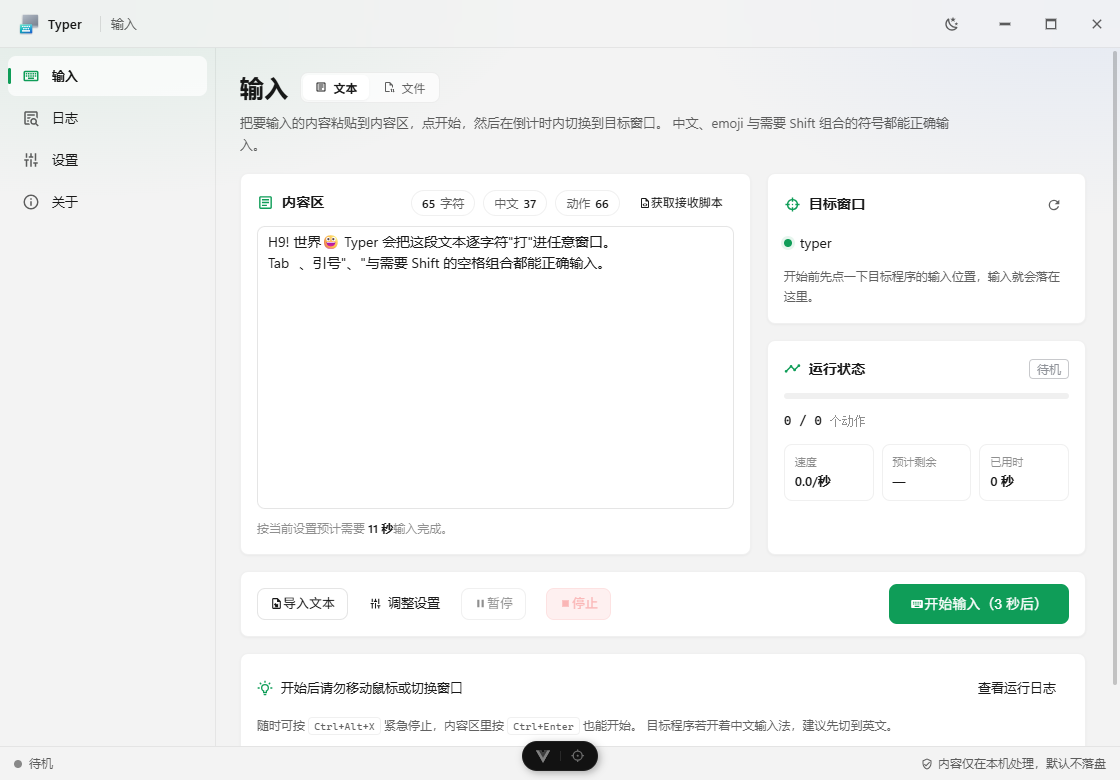
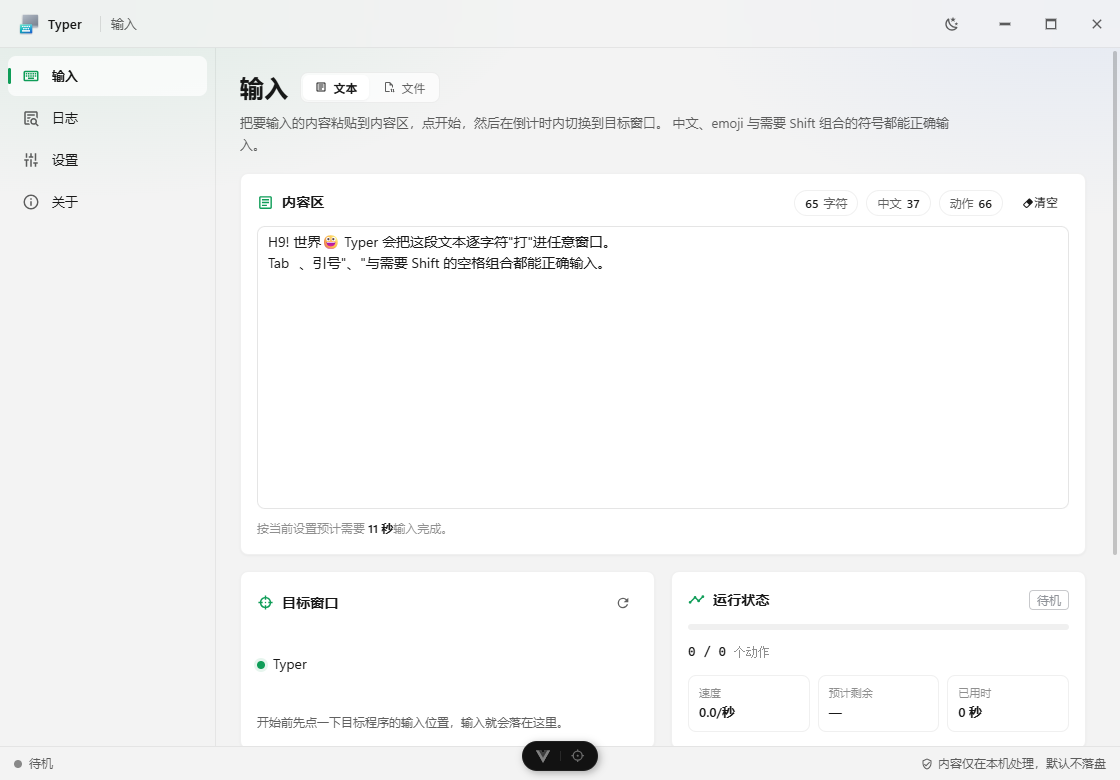
feat(renderer): 输入页按窗口宽度换排布，文本页按钮改为清空
- 文本内容区卡片：「获取接收脚本」换成「清空」（内容区为空时禁用）；接收端脚本仍可从文件页
  的脚本卡一键插入
- 输入页排布：宽窗口（≥1280px）保持"内容区 + 右列（目标窗口 / 运行状态）"两列等高；
  默认窗口宽度及更窄改为内容区独占一行，目标窗口与运行状态并排放在下面且等高
  （目标窗口内容少，撑高后把说明压到底部与统计区对齐）；≤980px 起全部单列
- 图标行对齐：抽出 .text-icon（按行框与图标高度之差补偿），修掉计划行/帧提示里图标贴着
  行上沿、与文字不同心的观感
- 文档与界面图更新（含输入页排布说明）

验证：三档宽度实测（1500 两列 / 1120 单列+并排等高 178px / 880 全单列）；
prettier --check、eslint、typecheck 全绿；vitest 470 unit passed

diff --git a/src/renderer/src/views/TyperView.vue b/src/renderer/src/views/TyperView.vue
@@ -221,7 +221,7 @@ async function insertToolScriptFromFile(): Promise<void> {
   display: grid;
   grid-template-columns: minmax(0, 1.6fr) minmax(280px, 1fr);
   gap: 16px;
-  /* 两列等高：左列是主任务（内容区），通常更高，右列拉伸对齐它的底边 */
+  /* 宽窗口：两列等高（左列是主任务，右列拉伸对齐它的底边） */
   align-items: stretch;
 }
 
@@ -270,7 +270,7 @@ async function insertToolScriptFromFile(): Promise<void> {
   min-height: 0;
   gap: 16px;
 
-  /* 目标窗口是固定内容，多出来的高度给运行状态，右列因此与左列等高 */
+  /* 宽窗口下右列与左列等高：目标窗口是固定内容，多出来的高度给运行状态 */
   > :last-child {
     flex: 1;
   }
@@ -376,9 +376,36 @@ async function insertToolScriptFromFile(): Promise<void> {
   }
 }
 
-@media (max-width: 980px) {
+/*
+ * 中窗口（含默认窗口宽度）：内容区独占一行，目标窗口与运行状态并排放在它下面、两卡等高；
+ * 高度多出来的部分留给内容，避免卡片看起来"半空"。
+ */
+@media (max-width: 1279px) {
   .input-layout {
     grid-template-columns: minmax(0, 1fr);
+  }
+
+  .side-column {
+    flex-direction: row;
+    align-items: stretch;
+
+    > :first-child,
+    > :last-child {
+      flex: 1;
+      min-width: 0;
+    }
+  }
+
+  /* 目标窗口内容少，撑高后把说明压到底部，与运行状态的统计区对齐 */
+  .target {
+    justify-content: space-between;
+  }
+}
+
+/* 窄窗口：全部单列 */
+@media (max-width: 980px) {
+  .side-column {
+    flex-direction: column;
   }
 }
 </style>

diff --git a/src/renderer/src/components/TextPanel.vue b/src/renderer/src/components/TextPanel.vue
@@ -7,7 +7,6 @@ import { estimateTotalMs } from '@main/typing/scheduling/timing'
  */
 const typing = useTyping()
 const settingsStore = useSettings()
-const toolScript = useToolScript()
 
 /** 当前生效的设置 */
 const settings = settingsStore.settings
@@ -32,6 +31,11 @@ const blocker = computed(() => {
   if (typing.text.value.length === 0) return '先在内容区粘贴要输入的文本'
   return ''
 })
+
+/** @description 清空内容区 */
+function clear(): void {
+  typing.text.value = ''
+}
 </script>
 
 <template>
@@ -56,11 +60,11 @@ const blocker = computed(() => {
       <ElButton
         size="small"
         text
-        :loading="toolScript.loading.value"
-        title="把接收脚本全文放进内容区"
-        @click="toolScript.insert()"
+        :disabled="typing.text.value.length === 0"
+        title="清空内容区"
+        @click="clear()"
       >
-        <span class="i-mdi-file-code-outline" /> 获取接收脚本
+        <span class="i-mdi-eraser" /> 清空
       </ElButton>
     </div>
 
@@ -83,7 +87,7 @@ const blocker = computed(() => {
     </p>
 
     <p v-if="looksLikeFrames" class="frame-hint">
-      <span class="i-mdi-information-outline" />
+      <span class="i-mdi-information-outline text-icon" />
       看起来是 Typer 帧文本：逐字符输入完全可行（接收端会逐片校验）， 但请把「错字概率」设为
       0，否则错字会破坏该帧、需要重传那一片。
     </p>

diff --git a/src/renderer/src/components/FilePanel.vue b/src/renderer/src/components/FilePanel.vue
@@ -332,7 +332,7 @@ const previewRows = computed(() => summary.value?.preview ?? [])
           </div>
 
           <p class="plan-line">
-            <span class="i-mdi-information-outline" />
+            <span class="i-mdi-information-outline text-icon" />
             本次将发送 <strong>{{ transfer.plan.value?.ranges ?? '全部' }}</strong> 共
             {{ transfer.sendingCount.value }} 片<template v-if="transfer.plan.value?.sendBegin">
               ，先发开始帧</template

diff --git a/src/renderer/src/assets/main.css b/src/renderer/src/assets/main.css
@@ -123,6 +123,12 @@ a:hover {
   color: var(--text-2);
 }
 
+/* 与文本同排（首行对齐）的图标：按行框与图标高度之差补偿 */
+.text-icon {
+  flex: none;
+  margin-top: calc((1lh - 1em) / 2);
+}
+
 /* ==========================================================================
    按钮与图标按钮
    ========================================================================== */

diff --git a/README.md b/README.md
@@ -33,7 +33,7 @@
 - **文本导入**：UTF-8 / UTF-16 / GBK 自动识别（中文 Windows 常见编码）
 - **文件传输（逐片传输）**：选任意文件 → 编码成纯 ASCII 帧（hex / base64 / UTF-8 文本）→ 逐片输入；
   片级 `CRC32` + `SHA-256` 校验、整文件 `SHA-256` 校验、断点续传与定点重传，配套零依赖单文件接收端脚本（Node ≥ 16）；
-  文本页一键「获取接收脚本」即可把脚本原文"打"进目标机终端，不需要任何传输介质
+  文件页的脚本卡一键「插入接收脚本到文本输入」即可把脚本原文"打"进目标机终端，不需要任何传输介质
 - **文件传输使用固定节奏**：随机性、抖动、错字与停顿在文件模式下不生效，只有「片间断顿」生效
   —— 数据传输要的是可复现与速度，不是"像人打字"
 - **内置更新**：检查 GitHub Release → 下载 → SHA-256 校验 → 交给安装程序（详见下文）
@@ -41,12 +41,12 @@
 
 ## 界面与交互
 
-| 页面     | 职责                                                                                                                              |
-| -------- | --------------------------------------------------------------------------------------------------------------------------------- |
-| **输入** | 两种模式：**文本**（内容区 + 实时统计 + 预计耗时）与**文件**（文件摘要 + 十六进制预览 + 续传/重传）；右侧始终是目标窗口与运行状态 |
-| **日志** | 运行记录，按级别筛选、复制、清空；新条目自动滚动                                                                                  |
-| **设置** | 九组设置整页编辑，粘底保存条显示"有未保存改动 / 已保存"                                                                           |
-| **关于** | 版本与更新中心、外部链接、实现要点与已知限制                                                                                      |
+| 页面     | 职责                                                                                                                                                  |
+| -------- | ----------------------------------------------------------------------------------------------------------------------------------------------------- |
+| **输入** | 两种模式：**文本**（内容区 + 实时统计 + 预计耗时）与**文件**（文件摘要 + 十六进制预览 + 续传/重传）；目标窗口与运行状态随窗口宽度落在右侧或内容区下方 |
+| **日志** | 运行记录，按级别筛选、复制、清空；新条目自动滚动                                                                                                      |
+| **设置** | 九组设置整页编辑，粘底保存条显示"有未保存改动 / 已保存"                                                                                               |
+| **关于** | 版本与更新中心、外部链接、实现要点与已知限制                                                                                                          |
 
 设计取向：
 
@@ -54,11 +54,13 @@
   "调整设置 / 查看运行日志"作为文字入口；日志与设置各占整页
 - **两种输入模式共用一个操作条**：模式切换在页头（文本 / 文件），"开始"按钮的主次关系不变，
   文件模式下按钮直接显示"发送 N 片"
+- **输入页按宽度换排布**：宽窗口（≥1280px）是"内容区 + 右列（目标窗口 / 运行状态）"两列等高；
+  默认窗口宽度及更窄时内容区独占一行，目标窗口与运行状态并排放在它下面并保持等高；再窄则全部单列
 - **两种模式的区域内容都缓存**：**文本 / 文件切换不重新挂载**（`<KeepAlive>`），页内状态原样保留
   —— 文件面板展开的十六进制预览与续传输入框、内容区文本、日志页的筛选与滚动位置都在；
   回到被缓存的页面时按需补齐（日志页处于"跟随"则滚到底部，设置页草稿未编辑时与最新设置对齐）
-- **接收端脚本随手可取**：文本页「获取接收脚本」把打包好的脚本原文放进内容区（内容区非空时先确认替换），
-  文件页的脚本卡片同样能一键插入并切回文本模式 —— 目标机上只要 `cat > typer-recv.mjs` 就能"打"过去
+- **接收端脚本随手可取**：文件页的脚本卡有一键「插入接收脚本到文本输入」——把打包好的脚本原文放进内容区
+  （内容区非空时先确认替换）并切到文本模式，目标机上只要 `cat > typer-recv.mjs` 就能"打"过去
 - **自绘标题栏**：品牌 + 当前页面名 + 主题切换 + 最小化/最大化/还原/关闭。
   窗口是无边框的（`frame: false`），空白处拖拽移动、双击最大化，最大化状态由主进程推送保持同步
 - **左侧导航**：选中态为"左侧 3px 强调条 + 轻微填充"（Win11 NavigationView 的指示方式）；
@@ -115,7 +117,7 @@ node typer-recv.mjs -o received.bin --token
 
 # ② 发送端：Typer 的「文件」模式选择文件 → 点"发送 N 片"
 #    （接收端零依赖、Node ≥ 16；三种把它弄到目标机的方式见 tools/README.md：
-#      文本页「获取接收脚本」打进目标终端 / 「导出脚本」拷过去 / 安装目录 resources\tools）
+#      文件页「插入接收脚本到文本输入」打进目标终端 / 「导出脚本」拷过去 / 安装目录 resources\tools）
 ```
 
 - **编码**：`hex`（默认，只有 `0-9 A-F`，最抗终端与输入法干扰，能逐字节还原任何文件）、
@@ -128,13 +130,13 @@ node typer-recv.mjs -o received.bin --token
 
 ### 接收端要点
 
-| 场景                                      | 做法                                                                                                              |
-| ----------------------------------------- | ----------------------------------------------------------------------------------------------------------------- |
-| 终端（Windows Terminal / conhost / bash） | 直接运行；TTY 下自动 raw 模式，粘贴与注入都不回显                                                                 |
-| 串口 / 环回链路                           | 加 `--ack none`，否则回执会顺链路回到发送端被当成按键；同时建议减小片、放慢节奏                                   |
-| 目标机还没有脚本                          | 文本页点「获取接收脚本」→ 在目标机执行 `cat > typer-recv.mjs` 后开始输入，最后按 `Ctrl+D`（或「导出脚本」拷过去） |
-| 只发来一批帧文本                          | 用 `--in frames.txt` 从文件读帧（不必接标准输入）                                                                 |
-| 环境自检                                  | `node typer-recv.mjs --selftest`（校验 CRC / 编码 / 转义 / 片号解析）                                             |
+| 场景                                      | 做法                                                                                                                              |
+| ----------------------------------------- | --------------------------------------------------------------------------------------------------------------------------------- |
+| 终端（Windows Terminal / conhost / bash） | 直接运行；TTY 下自动 raw 模式，粘贴与注入都不回显                                                                                 |
+| 串口 / 环回链路                           | 加 `--ack none`，否则回执会顺链路回到发送端被当成按键；同时建议减小片、放慢节奏                                                   |
+| 目标机还没有脚本                          | 文件页脚本卡点「插入接收脚本到文本输入」→ 在目标机执行 `cat > typer-recv.mjs` 后开始输入，最后按 `Ctrl+D`（或「导出脚本」拷过去） |
+| 只发来一批帧文本                          | 用 `--in frames.txt` 从文件读帧（不必接标准输入）                                                                                 |
+| 环境自检                                  | `node typer-recv.mjs --selftest`（校验 CRC / 编码 / 转义 / 片号解析）                                                             |
 
 ## 自动更新
 
